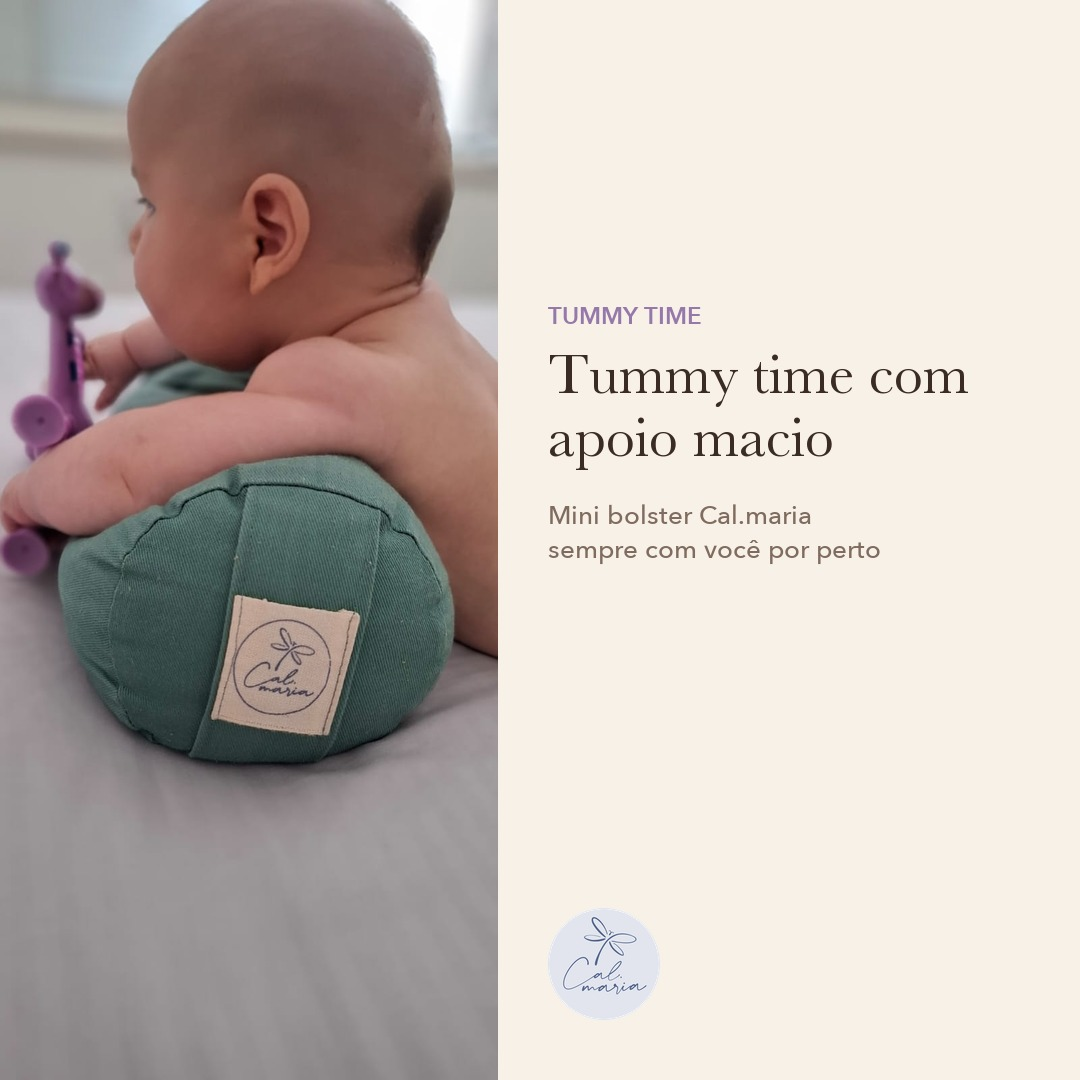
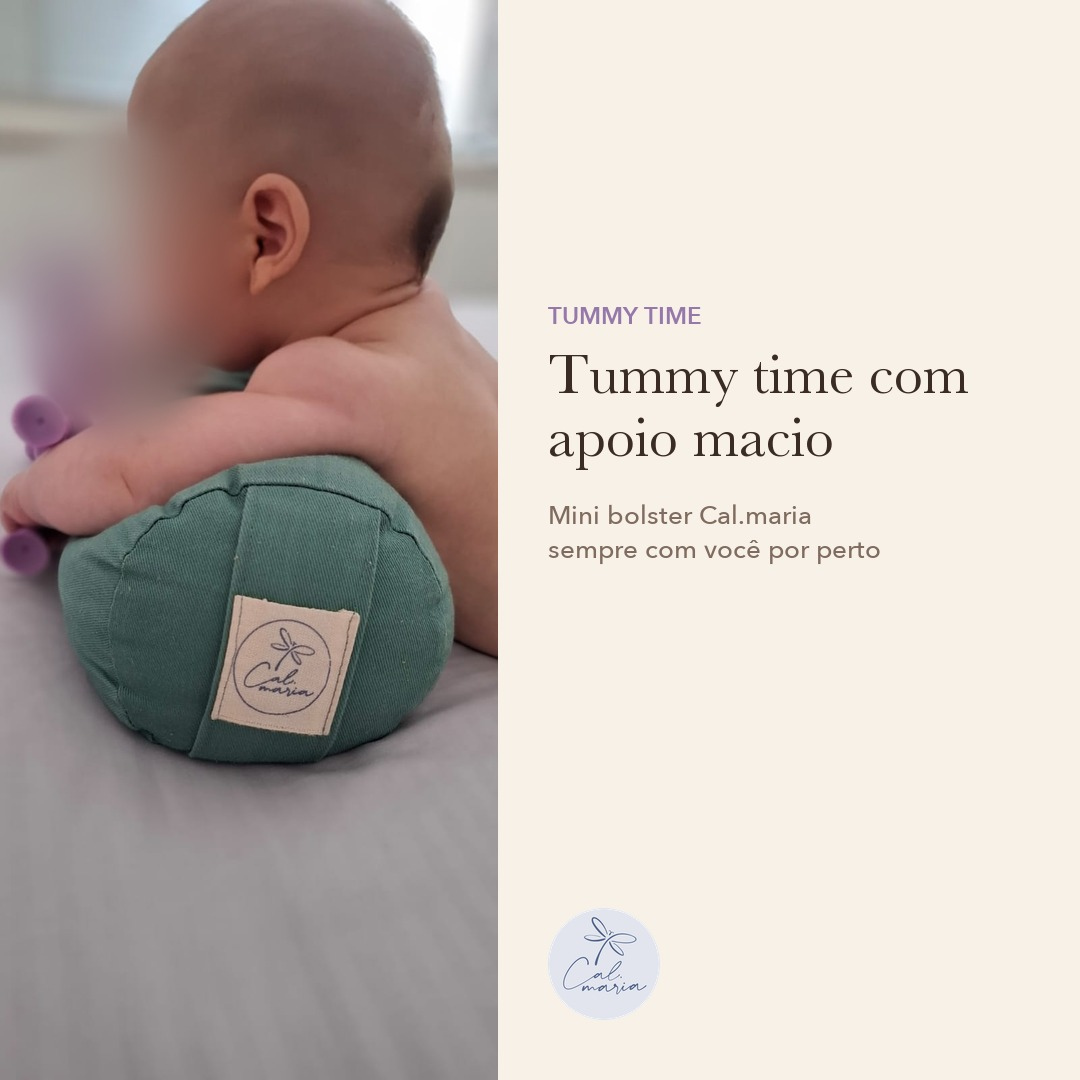
Calmaria: M05 com rosto do bebê desfocado

Changed region(s): [[0.0, 0.1222, 0.2139, 0.4278]]

diff --git a/calmaria/criativos-maes/index.html b/calmaria/criativos-maes/index.html
@@ -43,7 +43,7 @@ figcaption{font-size:12px;color:var(--sub);margin-top:6px}
 <ul>
 <li><strong>M02:</strong> sem desfoque no rosto.</li>
 <li><strong>M03:</strong> título novo ("Sentar sem pesar tornozelos e joelhos") e a sua legenda.</li>
-<li><strong>M05:</strong> foto nova da girafinha, a que menos mostra o rostinho, com o título "Tummy time com apoio macio" e a sua legenda.</li>
+<li><strong>M05:</strong> foto nova da girafinha, com o rostinho desfocado, com o título "Tummy time com apoio macio" e a sua legenda.</li>
 <li><strong>B03:</strong> título novo ("Apoiar, descobrir e brincar").</li>
 <li><strong>B04:</strong> outra foto da girafinha, com o rostinho desfocado. Na legenda entrou "mamãe" e saiu o "feito à mão".</li>
 <li><strong>B05:</strong> sem desfoque e sem o "feito à mão" na legenda.</li>
@@ -91,7 +91,7 @@ figcaption{font-size:12px;color:var(--sub);margin-top:6px}
 <section class="peca">
 <div class="kick">M05 · Tummy time</div>
 <h2>Tummy time com apoio macio</h2>
-<p>Foto nova da girafinha. Como ela é vertical, entra inteira ao lado do texto para não cortar a cabecinha do bebê.</p>
+<p>Foto nova da girafinha, com o rostinho desfocado. Como ela é vertical, entra inteira ao lado do texto para não cortar a cabecinha do bebê.</p>
 <div class="imgs">
 <figure><img src="pecas/M05_TUMMY_TIME_FEED_1X1.jpg" alt="Bebê de bruços apoiado em mini bolster verde"><figcaption>Feed 1:1</figcaption></figure>
 <figure><img src="pecas/M05_TUMMY_TIME_STORY_9X16.jpg" alt="Versão story da mesma peça"><figcaption>Story 9:16</figcaption></figure>
